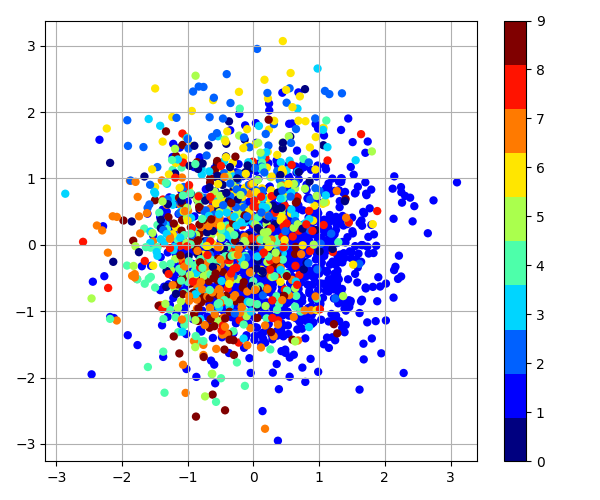
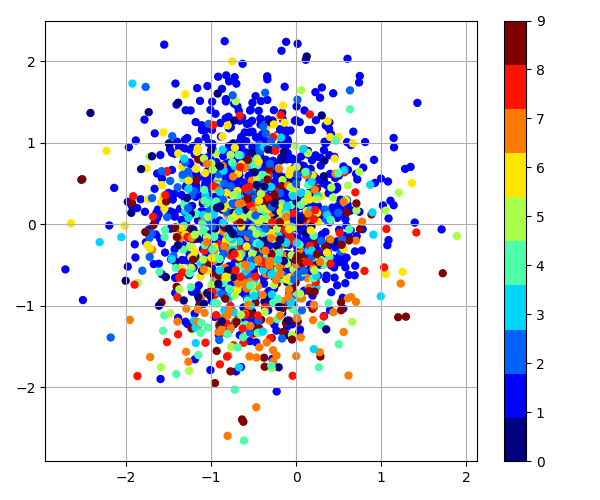
20190916

diff --git a/source/tf_process.py b/source/tf_process.py
@@ -248,10 +248,9 @@ def test(sess, saver, neuralnet, dataset, batch_size):
             savename=os.path.join("test-latent_z_T.png"))
     else:
         pca = PCA(n_components=2)
-        pca_features = pca.fit_transform(z_enc_tot)
-        latent_plot(latent=pca_features, y=y_te_tot, n=dataset.num_class, \
+        tot_vec = np.append(z_enc_tot, z_T_enc_tot, axis=0)
+        pca_features = pca.fit_transform(tot_vec)
+        latent_plot(latent=pca_features[:int(pca_features.shape[0]/2)], y=y_te_tot, n=dataset.num_class, \
             savename=os.path.join("test-latent_z.png"))
-        pca = PCA(n_components=2)
-        pca_features = pca.fit_transform(z_T_enc_tot)
-        latent_plot(latent=pca_features, y=y_te_tot, n=dataset.num_class, \
+        latent_plot(latent=pca_features[int(pca_features.shape[0]/2):], y=y_te_tot, n=dataset.num_class, \
             savename=os.path.join("test-latent_z_T.png"))

diff --git a/README.md b/README.md
@@ -22,8 +22,8 @@ Implementation of 'Self-adversarial Variational Autoencoder with Gaussian Anomal
 </div>
 
 <div align="center">
-  <img src="./figures/test-box.png" width="400">
-  <p>Box plot with encoding loss of test procedure.</p>
+  <img src="./figures/test-box.png" width="350"><img src="./figures/histogram-test.png" width="390">
+  <p>Box plot and histogram of restoration loss in test procedure.</p>
 </div>
 
 <div align="center">
